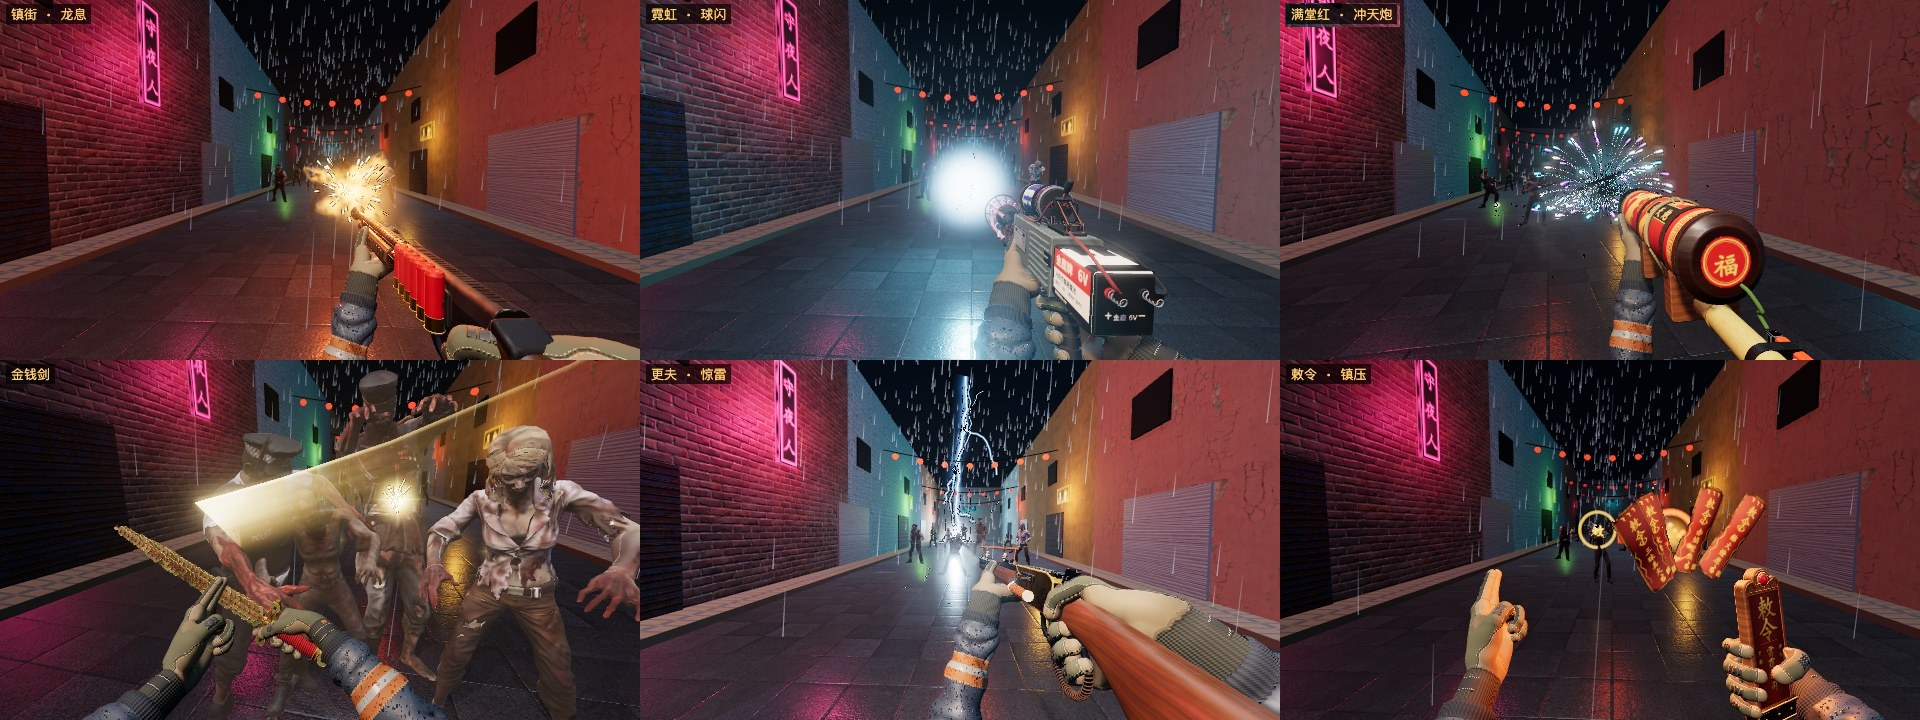
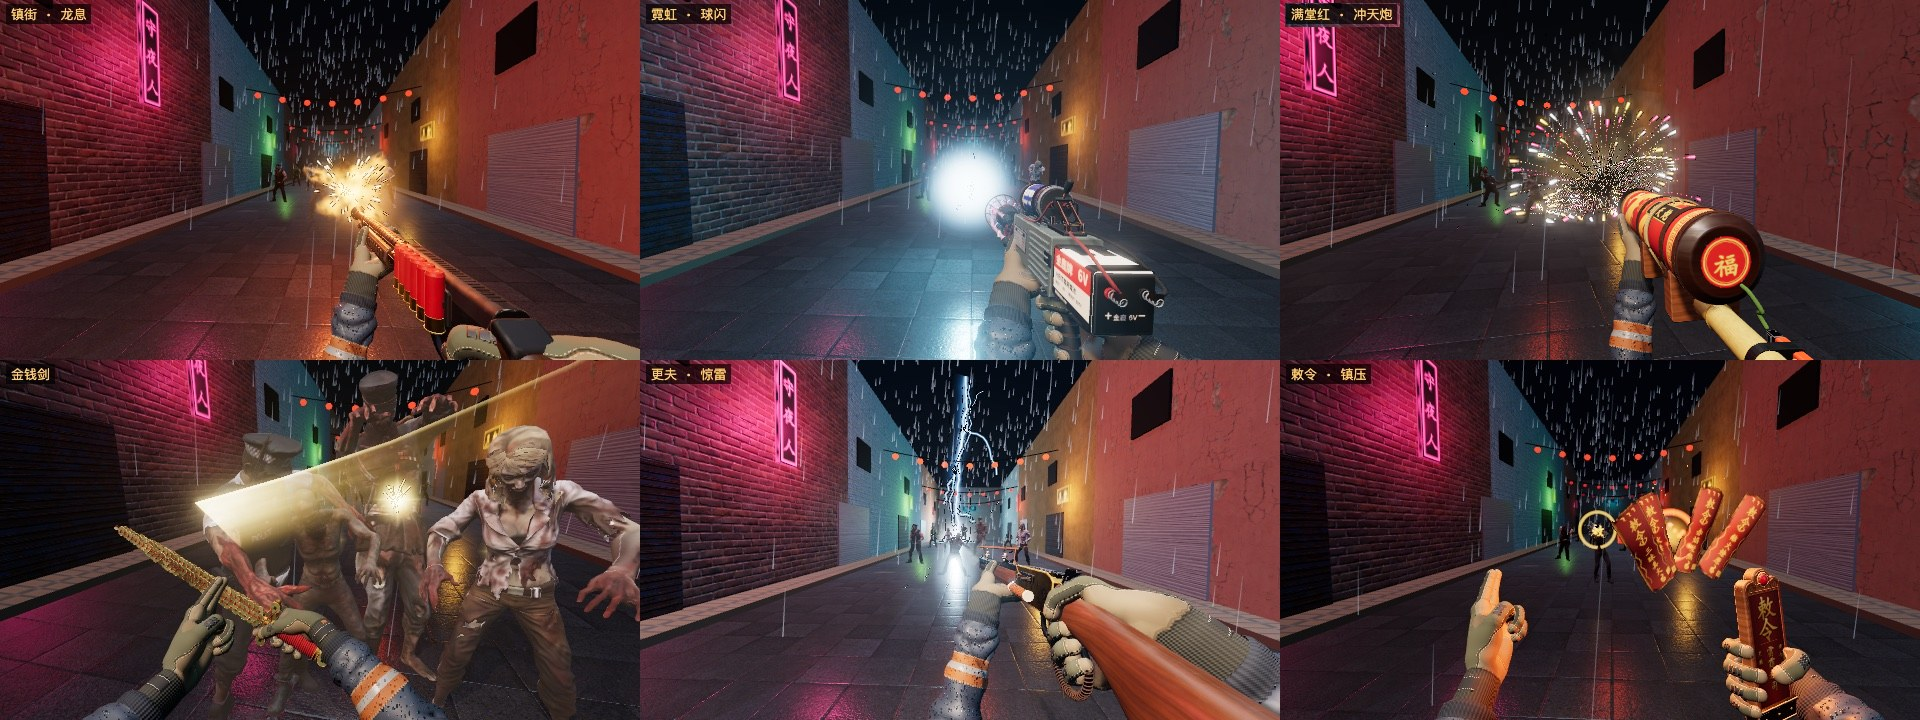
Make the firework bigger, and let it catch whoever fires it too close
A burst is the same size wherever it goes off; it was a small one. The
ordinary rocket's burst goes from 2.4 m to 3.6 m across its stars (and
its damage from 3 m to 3.6 m, so what is inside the fire is hurt by it),
the charged shell's from 5 m to 6.5 m, the seeking stars' from 1.2 m to
1.9 m. Close up it fills the view.

And like any other blast it does not spare the one who set it off: the
shooter takes a quarter of a burst's damage standing at its centre, less
with distance, nothing at its edge or behind a wall, and never more than
40 from one burst (arsenal/src/data/weapons.js, `self` and `selfMax`).
A rocket at the feet costs about ten; down the street it costs nothing.
The game takes it from the player's health; the lab's bench counts it.

Assisted-by: Cindy (https://cindy.app)

Changed region(s): [[0.6562, 0.0, 0.9062, 0.3361], [0.9688, 0.3667, 1.0, 0.3972], [0.9375, 0.3361, 0.9688, 0.3667]]

diff --git a/arsenal/src/combat/behaviours.js b/arsenal/src/combat/behaviours.js
@@ -34,7 +34,10 @@ const FW_PALETTES = [
 const pick = (a) => a[(Math.random() * a.length) | 0];
 
 // ---------------------------------------------------------------- shared pieces
+// o.self: the share of it that reaches back to the shooter, o.selfMax: at most this much
 function splash(ctx, pos, radius, dmg, o = {}) {
+  if (o.self > 0)
+    ctx.blowback(pos, radius, Math.min(dmg * o.self, o.selfMax ?? Infinity));
   for (const h of ctx.targets.inSphere(pos, radius)) {
     const k = 1 - 0.6 * Math.min(1, h.dist / radius);
     ctx.hit(h.z, dmg * k, {
@@ -1104,14 +1107,14 @@ export const BEHAVIOURS = {
         const pal = o.colors || pick(FW_PALETTES);
         E.firework(pos, {
           colors: pal,
-          radius: o.radius ?? 2.4,
-          count: o.count ?? 90,
+          radius: o.radius ?? 3.6,
+          count: o.count ?? 125,
           kind: o.kind || pick(["peony", "peony", "ring", "willow"]),
           crackle: o.crackle,
         });
         if (o.blast !== false)
           E.explosion(pos, {
-            radius: (o.radius ?? 2.4) * 0.45,
+            radius: (o.radius ?? 3.6) * 0.4,
             smoke: 0.5,
             sparks: 0,
             shake: 0.1,
@@ -1180,8 +1183,8 @@ export const BEHAVIOURS = {
           const pal = pick(FW_PALETTES);
           burst(pos, {
             colors: [...pal, 0xffffff],
-            radius: 5 * c,
-            count: Math.round(220 * c),
+            radius: 6.5 * c,
+            count: Math.round(260 * c),
             kind: "willow",
             crackle: true,
             blast: false,
@@ -1190,12 +1193,14 @@ export const BEHAVIOURS = {
           fx.after(0.18, () =>
             E.firework(pos.clone().add(V(0, 0.4, 0)), {
               colors: [pal[1], 0xffffff],
-              radius: 3.2 * c,
-              count: 70,
+              radius: 4.4 * c,
+              count: 90,
               kind: "ring",
             }),
           );
           splash(ctx, pos, 7 * c * (ctx.cap ? 1.5 : 1), 320 * c, {
+            self: F.firework.self,
+            selfMax: F.firework.selfMax,
             element: "fire",
             status: "fire",
             stacks: 2,
@@ -1239,6 +1244,8 @@ export const BEHAVIOURS = {
       const boom = (pos) => {
         burst(pos);
         splash(ctx, pos, F.firework.radius, F.firework.splash, {
+          self: F.firework.self,
+          selfMax: F.firework.selfMax,
           element: "fire",
           status: "fire",
           knock: 1.2,
@@ -1312,8 +1319,10 @@ export const BEHAVIOURS = {
         },
       });
       const star = (pos, pal) => {
-        E.firework(pos, { colors: pal, radius: 1.2, count: 36, kind: "peony" });
+        E.firework(pos, { colors: pal, radius: 1.9, count: 50, kind: "peony" });
         splash(ctx, pos, 1.8, 40, {
+          self: F.firework.self,
+          selfMax: F.firework.selfMax,
           element: "fire",
           status: "fire",
           knock: 0.5,

diff --git a/arsenal/tests/fx.spec.js b/arsenal/tests/fx.spec.js
@@ -113,3 +113,67 @@ test("the sparks stay within their pool however much is fired", async ({
   expect(got.peak).toBeLessThan(got.cap * 0.85);
   expect(got.thinnest).toBeLessThan(0.9);
 });
+
+test("a firework set off too close catches the shooter, one across the street does not", async ({
+  page,
+}) => {
+  await open(page, "mode=fp&ui=0&w=firework");
+  const got = await page.evaluate(() => {
+    const lab = window.__lab;
+    const c = lab.combat;
+    const V = lab.stage.THREE.Vector3;
+    c.targets.setLayout("far");
+    lab.advance(0.4, 1 / 60, false);
+    // the blast of the weapon in hand, set off `d` metres in front of the shooter's chest
+    const eye = lab.stage.camera.getWorldPosition(new V());
+    const taken = (d, radius, amount) => {
+      const before = c.meter.taken;
+      const at = new V(eye.x, eye.y - 0.6, eye.z - d);
+      // (through the same door the weapon's own bursts use)
+      const got = c.blowback(at, radius, amount);
+      return { got, counted: c.meter.taken - before };
+    };
+    return {
+      centre: taken(0, 3.6, 20),
+      half: taken(1.8, 3.6, 20),
+      edge: taken(3.6, 3.6, 20),
+      beyond: taken(6, 3.6, 20),
+    };
+  });
+  expect(got.centre.got).toBeCloseTo(20, 3);
+  expect(got.half.got).toBeCloseTo(10, 1);
+  expect(got.edge.got).toBe(0);
+  expect(got.beyond.got).toBe(0);
+  // and the range counts it as it counts a bite
+  expect(got.centre.counted).toBeCloseTo(20, 3);
+  expect(got.beyond.counted).toBe(0);
+});
+
+test("the firework's own rockets hurt the shooter at arm's length and not at range", async ({
+  page,
+}) => {
+  await open(page, "mode=fp&ui=0&w=firework");
+  const got = await page.evaluate(() => {
+    const lab = window.__lab;
+    const c = lab.combat;
+    lab.advance(0.5, 1 / 60, false);
+    const shot = (pitch) => {
+      const before = c.meter.taken;
+      c.aim(0, pitch);
+      lab.advance(0.1, 1 / 60, false);
+      c.press("fire");
+      lab.advance(1 / 60, 1 / 60, false);
+      c.release("fire");
+      lab.advance(1.6, 1 / 120, false);
+      return c.meter.taken - before;
+    };
+    c.targets.setLayout("far");
+    lab.advance(0.2, 1 / 60, false);
+    const far = shot(0); // down the alley: it bursts well away
+    const feet = shot(-0.69); // at the ground a pace in front
+    return { far, feet };
+  });
+  expect(got.far).toBe(0);
+  expect(got.feet).toBeGreaterThan(3);
+  expect(got.feet).toBeLessThanOrEqual(20);
+});

diff --git a/arsenal/src/combat/combat.js b/arsenal/src/combat/combat.js
@@ -133,6 +133,15 @@ export async function createCombat(lab) {
     if (W && W.beh.onDamage) W.beh.onDamage(ctx, ev);
   });
   targets.on("kill", () => meter.kills++);
+  // The shooter is hurt. The game takes it from the player's health (lab.hurt); the range
+  // has no health to take it from and counts it.
+  function hurtShooter(dmg, from) {
+    if (lab.hurt) return void lab.hurt(dmg, from);
+    meter.taken += dmg;
+    fx.shake(0.3);
+    audio && audio.play("flesh", { gain: 1.1 });
+    lab.ui && lab.ui.hurt && lab.ui.hurt(dmg);
+  }
   targets.on("attack", (ev) => {
     meter.taken += ev.dmg;
     fx.shake(0.3);
@@ -309,6 +318,25 @@ export async function createCombat(lab) {
     },
     push(z, dir, knock) {
       targets.push(z, dir, knock);
+    },
+    /**
+     * A blast reaches back to whoever set it off: `amount` standing at its centre, less
+     * with distance, nothing at `radius` or with a wall in the way. Returns what was taken.
+     */
+    blowback(pos, radius, amount) {
+      // (measured to the chest, as the game's own blasts are)
+      const at = _c.copy(aim.origin);
+      at.y -= 0.6;
+      const d = at.distanceTo(pos);
+      if (!(d < radius) || !(amount > 0)) return 0;
+      if (d > 0.3) {
+        const dir = _b.subVectors(at, pos).multiplyScalar(1 / d);
+        const wall = stage.range.raycast(pos, dir, d);
+        if (wall && wall.dist < d - 0.3) return 0;
+      }
+      const dmg = amount * (1 - d / radius);
+      hurtShooter(dmg, pos.clone());
+      return dmg;
     },
     /**
      * The weapon kicks: a is its strength, on the scale the weapon's numbers in data/feel.js
@@ -1182,6 +1210,8 @@ export async function createCombat(lab) {
     weapon: null,
     meter,
     recoil,
+    /** A blast reaching back to the shooter (see ctx.blowback): for scripts and checks. */
+    blowback: (pos, radius, amount) => ctx.blowback(pos, radius, amount),
     /** The spread the crosshair should show (rad): the weapon's own, opened by sustained fire. */
     get spread() {
       return shownSpread;

diff --git a/arsenal/src/data/weapons.js b/arsenal/src/data/weapons.js
@@ -319,7 +319,18 @@ export const WEAPONS = [
     slot: "主",
     element: "fire",
     tagline: "过年剩下的，今晚全放了。",
-    fire: { kind: "projectile", damage: 60, splash: 80, radius: 3, rpm: 100 },
+    // self: the share of a burst's damage the shooter takes standing at its centre, falling
+    // to nothing at its edge (a wall in between stops it); selfMax: the most one burst may
+    // take. Every burst of every form: fire it at your own feet and it bites.
+    fire: {
+      kind: "projectile",
+      damage: 60,
+      splash: 80,
+      radius: 3.6,
+      rpm: 100,
+      self: 0.25,
+      selfMax: 40,
+    },
     mag: 6,
     reserve: 30,
     reload: "整排换装 2.6 秒",

diff --git a/src/chinatown/armory.js b/src/chinatown/armory.js
@@ -197,6 +197,8 @@ export async function createArmory(G) {
     emit() {},
     // the game's zombies instead of the firing range's
     makeTargets: (l, fx, E) => createGameTargets(G, l, fx, E, root),
+    // a weapon's own blast catching the player (a firework set off too close)
+    hurt: (dmg, from) => G.player.damage(dmg, from),
     // a reload draws on the run's pools instead of filling the magazine from nowhere
     supply: {
       can: (W) => !hooks.canReload || hooks.canReload(W.id, W),

diff --git a/docs/balance-report.md b/docs/balance-report.md
@@ -83,7 +83,7 @@
 | 判官 左轮      | 重弹 | 170          | 552（甲）    | ×3.3 | 0.5            | 1.9            | 152 只   |
 | 更夫 杠杆枪    | 重弹 | 122          | 605（甲）    | ×5.0 | 1.1            | 2.6            | 204 只   |
 | 镬气 喷火器    | 火货 | 80           | 110（甲）    | ×1.4 | 0.7            | 4.0            | 74 只    |
-| 满堂红 烟花筒  | 火货 | 63           | 355（乙）    | ×5.6 | 0.9            | 5.1            | 32 只    |
+| 满堂红 烟花筒  | 火货 | 62           | 347（乙）    | ×5.6 | 0.9            | 5.2            | 31 只    |
 | 打桩 射钉枪    | 五金 | 91           | 200（乙）    | ×2.2 | 0.6            | 3.5            | 56 只    |
 | 诸葛 连弩      | 五金 | 71           | 157（甲）    | ×2.2 | 0.8            | 4.5            | 37 只    |
 | 霓虹 电弧枪    | 五金 | 53           | 92（乙）     | ×1.7 | 1.0            | 6.1            | 39 只    |
@@ -184,7 +184,7 @@
 | 判官 左轮     | 280      | 307      | 1.09     | 55          | 55            | 58          |
 | 更夫 杠杆枪   | 242      | 277      | 1.14     | 40          | 52            | 47          |
 | 镬气 喷火器   | 83       | 84       | 1.02     | 38          | 39            | 38          |
-| 满堂红 烟花筒 | 83       | 121      | 1.46     | 32          | 43            | 58          |
+| 满堂红 烟花筒 | 85       | 121      | 1.43     | 33          | 44            | 58          |
 | 打桩 射钉枪   | 142      | 124      | 0.88     | 65          | 60            | 59          |
 | 诸葛 连弩     | 319      | 127      | 0.40     | 99          | 46            | 43          |
 | 霓虹 电弧枪   | 86       | 93       | 1.08     | 42          | 45            | 44          |

diff --git a/docs/weapons-roguelike.md b/docs/weapons-roguelike.md
@@ -181,7 +181,7 @@
 
 > 过年剩下的，今晚全放了。
 
-- **定位**：飞行弹体，火系，吃火货，每发 12（甲 4、乙 20）。伤害 60 直击 + 80 溅射（3 米），射速 100/分，弹匣 6。整排换装 2.6 秒。
+- **定位**：飞行弹体，火系，吃火货，每发 12（甲 4、乙 20）。伤害 60 直击 + 80 溅射（3.6 米），射速 100/分，弹匣 6。整排换装 2.6 秒。
 - **外形**：六根红纸烟花筒扎成两排，金色回纹封边和『满堂红』贴纸，竹制肩托和握把，麻绳与铁丝捆扎，筒尾露出引线和一只打火机改的点火器。
 - **甲 · 万花筒**（火）：火箭在 12 米处分裂成 6 颗追踪小星，各自爆出不同颜色的小烟花。
   - 外形：筒组换成十九管蜂窝状的组合烟花盆，彩色纸筒（红、金、绿、紫），外箍两道黄铜环。
